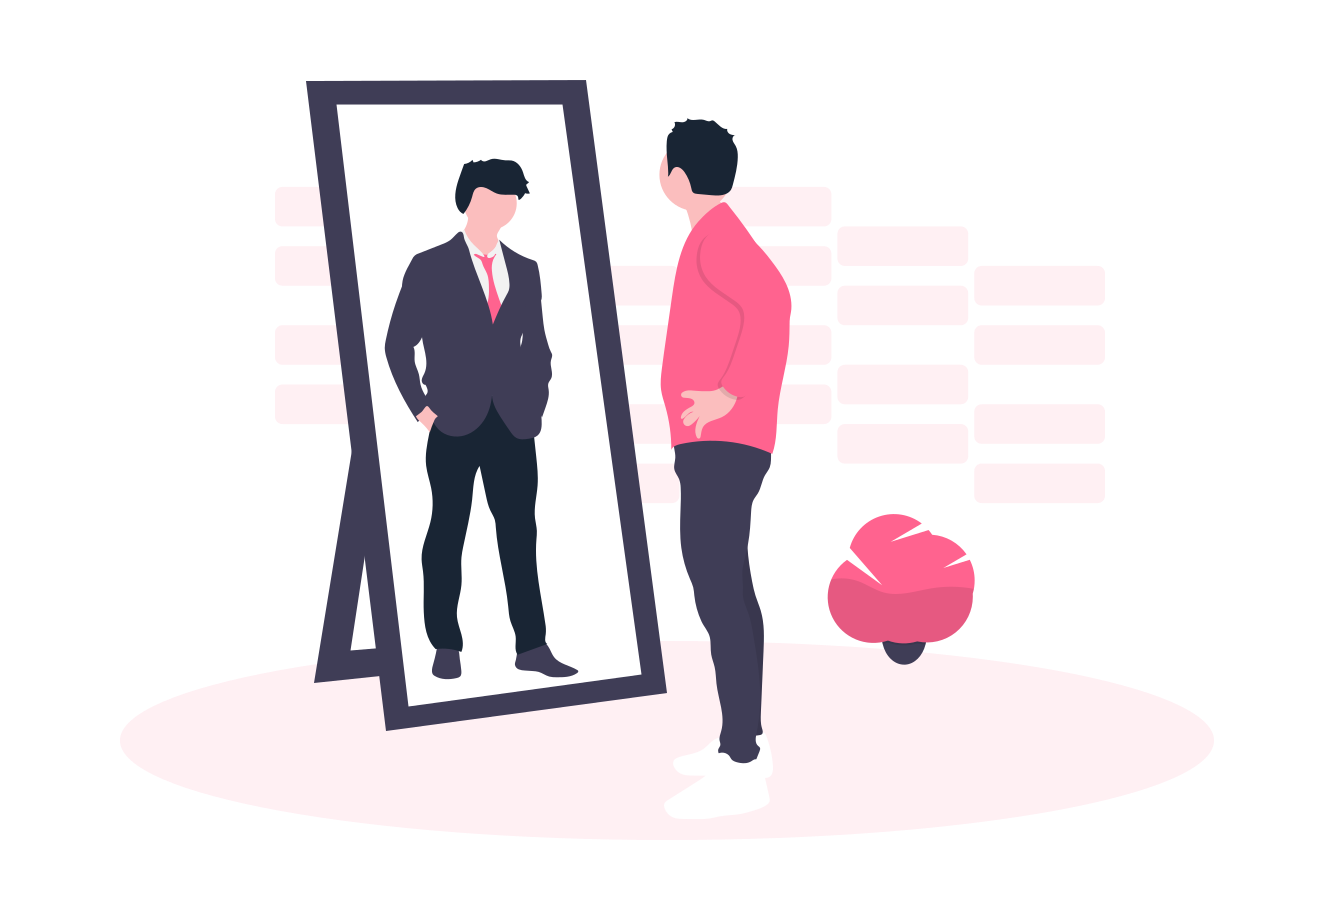
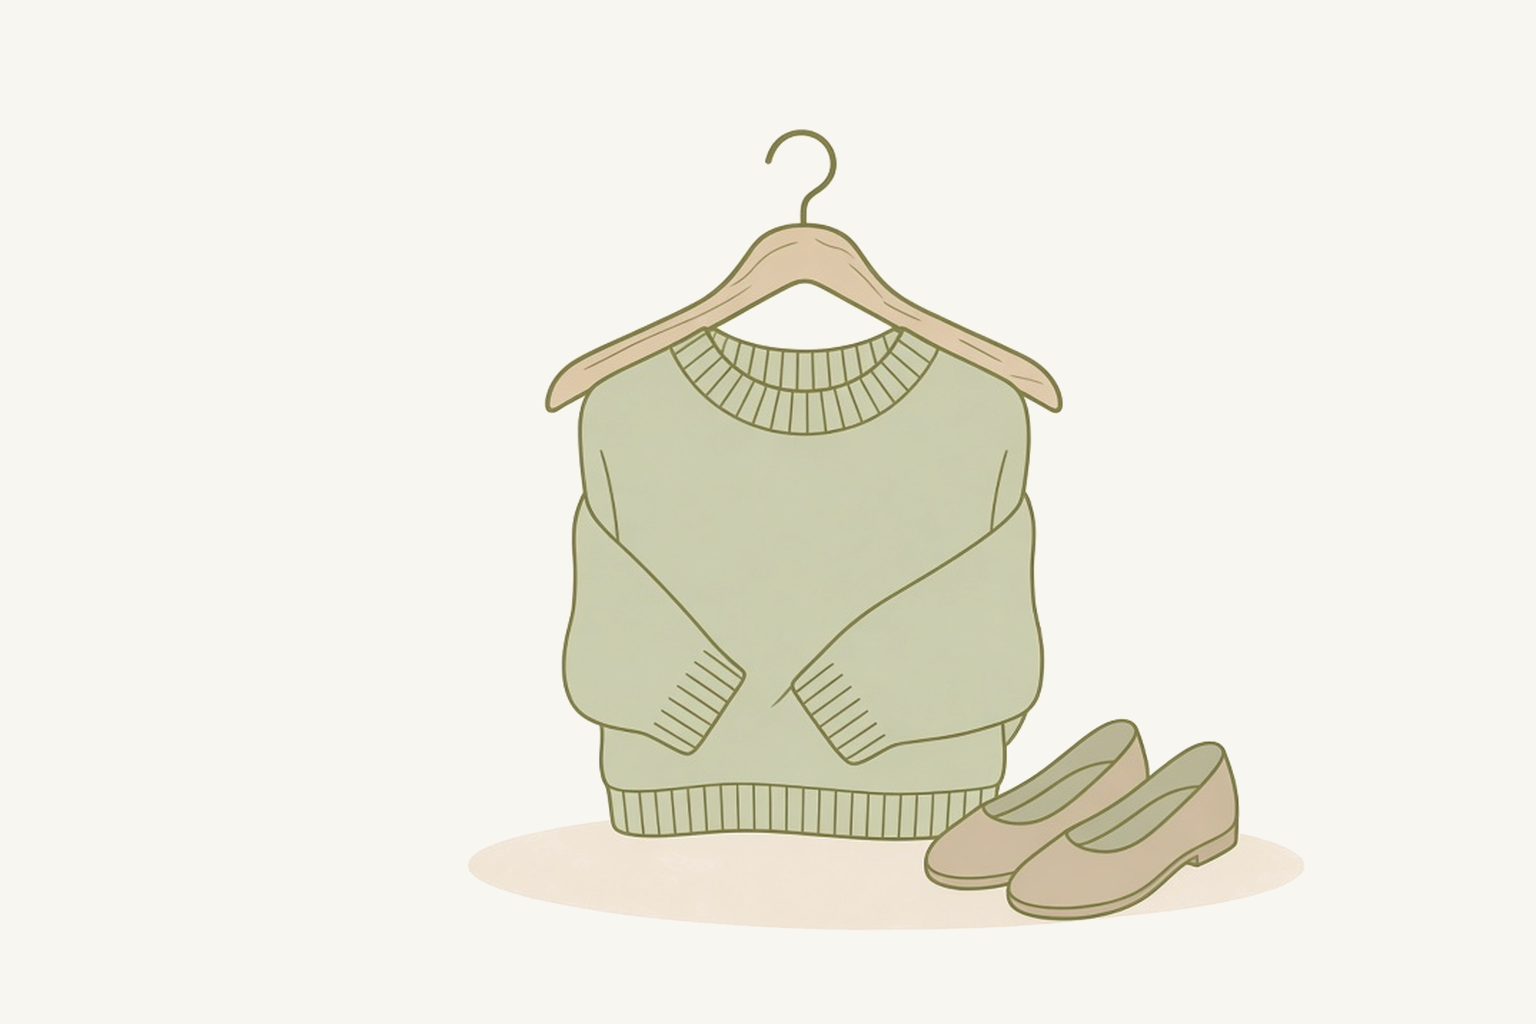
feat(mobile-rn): replace the onboarding slides with on-brand artwork
Swap the pink template illustrations for the olive/sand set, flattened
onto the app canvas colour so the images blend into the slide instead of
showing an off-colour rectangle. Slide 1 now has its own image; it had
been pointing at slide 3's.

Changed region(s): [[0.2151, 0.0609, 0.8606, 0.913]]

diff --git a/mobile-rn/constants/index.ts b/mobile-rn/constants/index.ts
@@ -75,7 +75,7 @@ export const onboarding = [
         title: "Welcome to Wardro",
         description:
             "Explore the new way of organizing your wardrobe",
-        image: images.onboarding3,
+        image: images.onboarding1,
     },
     {
         id: 2,
